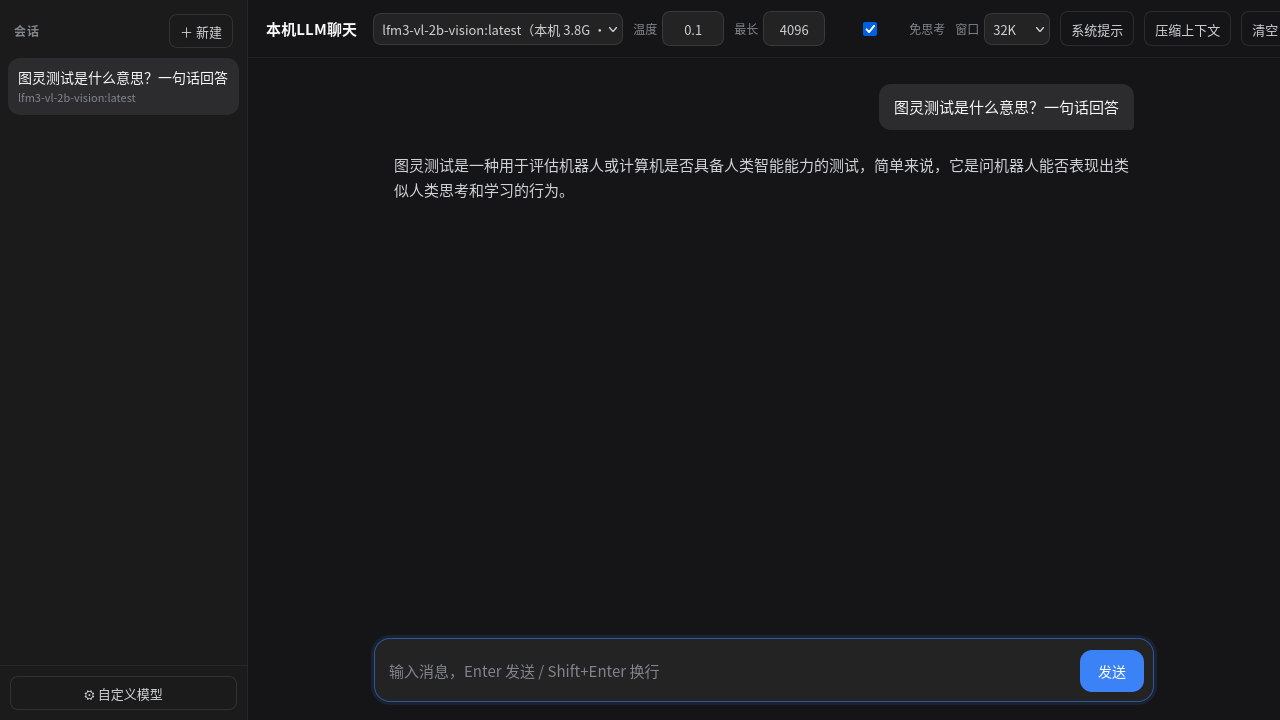
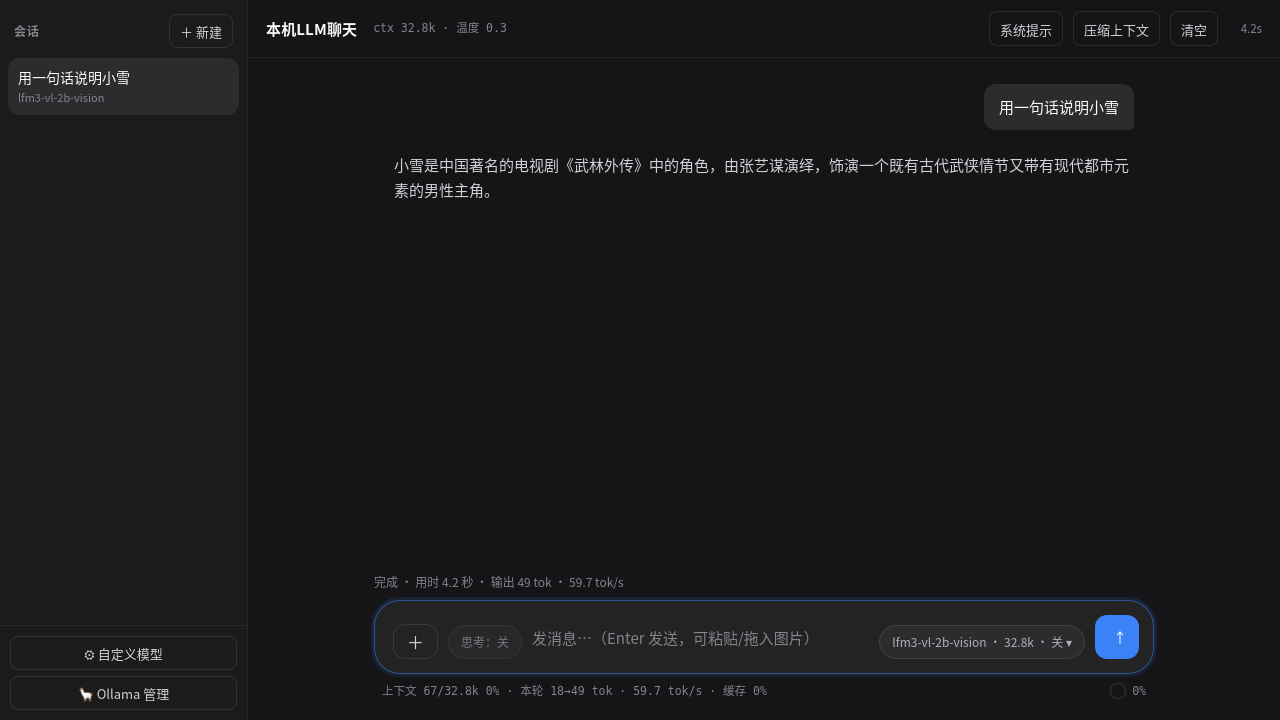
docs: 更新截图为新界面（输入区/模型菜单/系统面板/参数/预览/拉取进度）
- docs/screenshots/chat.png 换成 DSH 风格输入区
- 新增 model-menu.png、system-panel.png、pull-progress.png、html-preview.png
- 重新截取 ollama-manager.png（含导入 GGUF）与 model-params.png（含别名与显卡说明）
- README / README.en 截图表格与功能描述同步更新

diff --git a/README.en.md b/README.en.md
@@ -11,13 +11,33 @@ A **single-page frontend + single-file backend** (Python standard library only, 
 
 **Chat** — multi-session with local persistence, streaming, Markdown/tables/code, KaTeX math, collapsible reasoning, per-session system prompt, context compaction, live context-usage bar.
 
+**Composer** — two-row layout, one menu for **model + reasoning effort**, live generation line, context ring, token/s and cache-hit stats in the footer.
+
+**Code blocks** — one-click copy, plus a sandboxed HTML preview (no same-origin access).
+
+**System panel** — CPU / memory / every GPU, refreshed every 3 s, with a badge on the GPU Ollama is bound to.
+
 **Images** — click **＋**, drag & drop, or paste. Images are downscaled to **1024 px for the model** (below that OCR accuracy collapses) while history keeps a **256 px thumbnail** (~85% storage saved).
 
-**Ollama manager** — service status and **start / stop / restart**, loaded models with VRAM and *effective* context plus **unload / pin**, model library with **load / delete**, **pull** with progress, GPU VRAM bars, last 40 log lines.
+**Ollama manager** — service status and **start / stop / restart**, loaded models with VRAM and *effective* context plus **unload / pin**, model library with **load / delete**, **pull** as a server-side background job with real progress (survives a page refresh), **import local GGUF files** (recursive scan + auto `mmproj`), delete unloads first, orphaned parameter entries can be cleaned up, last 40 log lines.
 
-**Per-model launch parameters** — `num_ctx`, `num_gpu`, `num_batch`, `num_thread`, `temperature`, `top_p`, `top_k`, `repeat_penalty`, `num_predict`, `keep_alive`, plus arbitrary extra options. Stored server-side in `model-params.json`. Loading applies them; if the model is already resident it is **unloaded first** so the new parameters actually take effect. The chat header only *displays* the effective values, so nothing silently overrides your launch config.
+**Per-model launch parameters** — `num_ctx`, `num_gpu`, `num_batch`, `num_thread`, `temperature`, `top_p`, `top_k`, `repeat_penalty`, `num_predict`, `keep_alive`, plus arbitrary extra options. Stored server-side in `model-params.json`, together with an optional **display alias** so long model names stay short in the UI. Loading applies them; if the model is already resident it is **unloaded first** so the new parameters actually take effect. The chat header only *displays* the effective values, so nothing silently overrides your launch config.
 
 **Custom models** — any OpenAI-compatible endpoint (vLLM, LM Studio, cloud APIs).
+
+## Screenshots
+
+| Chat (model / effort menu, live stats) | Model menu grouped by provider |
+|---|---|
+| ![chat](docs/screenshots/chat.png) | ![menu](docs/screenshots/model-menu.png) |
+
+| Ollama manager (pull / GGUF import / residency) | Launch parameters (alias, GPU note) |
+|---|---|
+| ![manager](docs/screenshots/ollama-manager.png) | ![params](docs/screenshots/model-params.png) |
+
+| System panel (CPU / memory / per-GPU) | Code copy + HTML preview |
+|---|---|
+| ![system](docs/screenshots/system-panel.png) | ![preview](docs/screenshots/html-preview.png) |
 
 ## Quick start
 
@@ -82,3 +102,4 @@ llmchat/
 ```
 
 See [CONTRIBUTING.md](CONTRIBUTING.md) and [SECURITY.md](SECURITY.md). Licensed under [MIT](LICENSE).
+

diff --git a/README.md b/README.md
@@ -50,11 +50,21 @@
 
 ## 截图
 
-| 聊天 | Ollama 管理 |
+| 聊天（模型 / 推理等级、状态行、实时统计） | 模型菜单（按供应商分组） |
 |---|---|
-| ![chat](docs/screenshots/chat.png) | ![manager](docs/screenshots/ollama-manager.png) |
+| ![chat](docs/screenshots/chat.png) | ![menu](docs/screenshots/model-menu.png) |
 
-![params](docs/screenshots/model-params.png)
+| Ollama 管理（拉取 / 导入 GGUF / 常驻状态） | 启动参数（别名、显卡说明） |
+|---|---|
+| ![manager](docs/screenshots/ollama-manager.png) | ![params](docs/screenshots/model-params.png) |
+
+| 侧栏系统面板（CPU / 内存 / 每卡 GPU） | 代码块复制 + HTML 预览 |
+|---|---|
+| ![system](docs/screenshots/system-panel.png) | ![preview](docs/screenshots/html-preview.png) |
+
+拉取模型时显示真实进度（服务端后台任务，刷新页面不中断）：
+
+![pull](docs/screenshots/pull-progress.png)
 
 ## 快速开始
 
